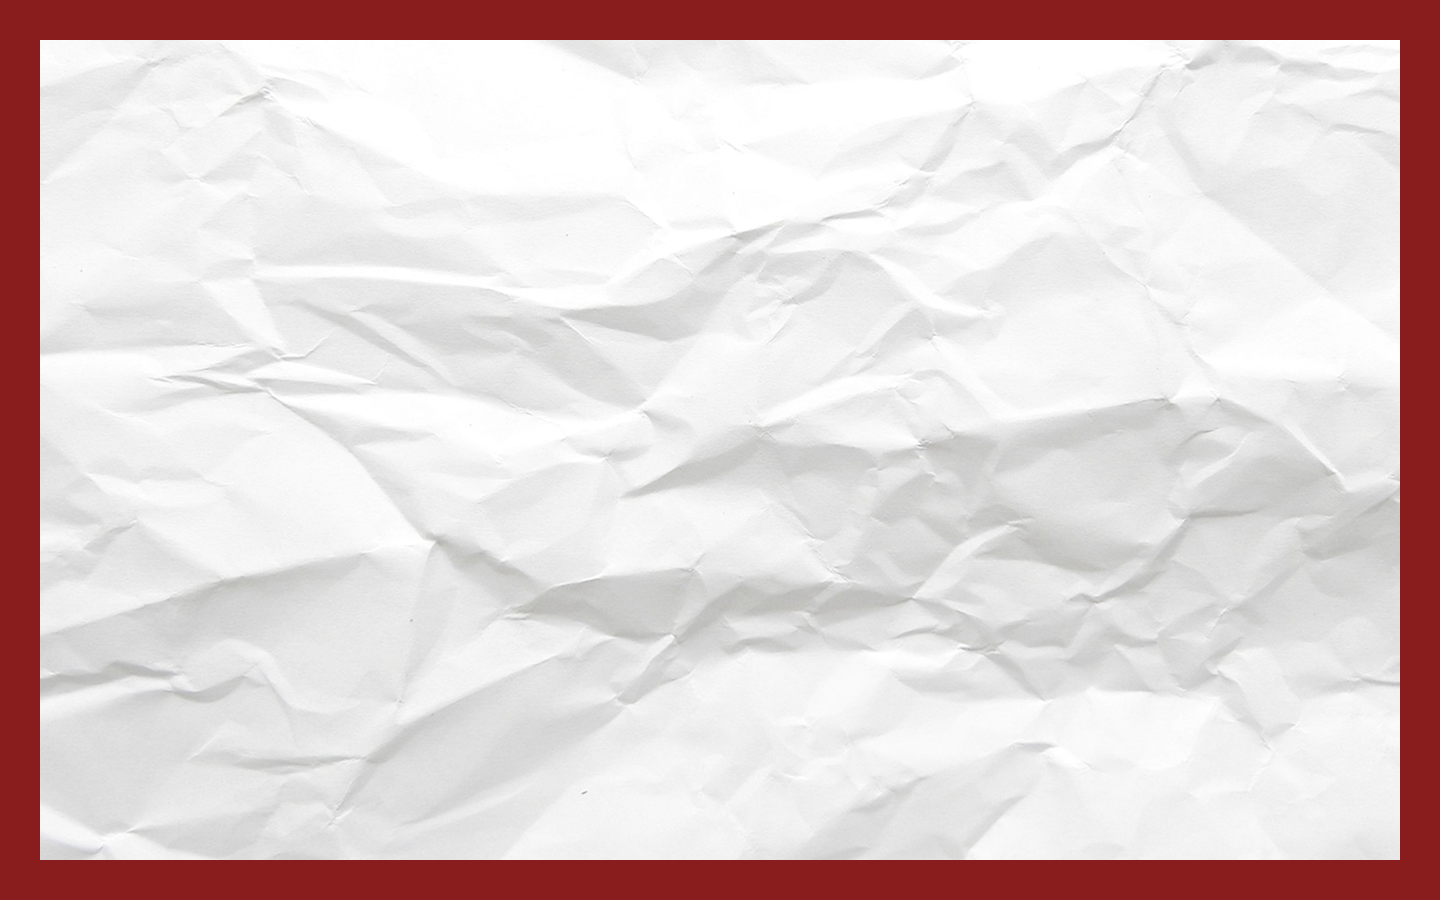
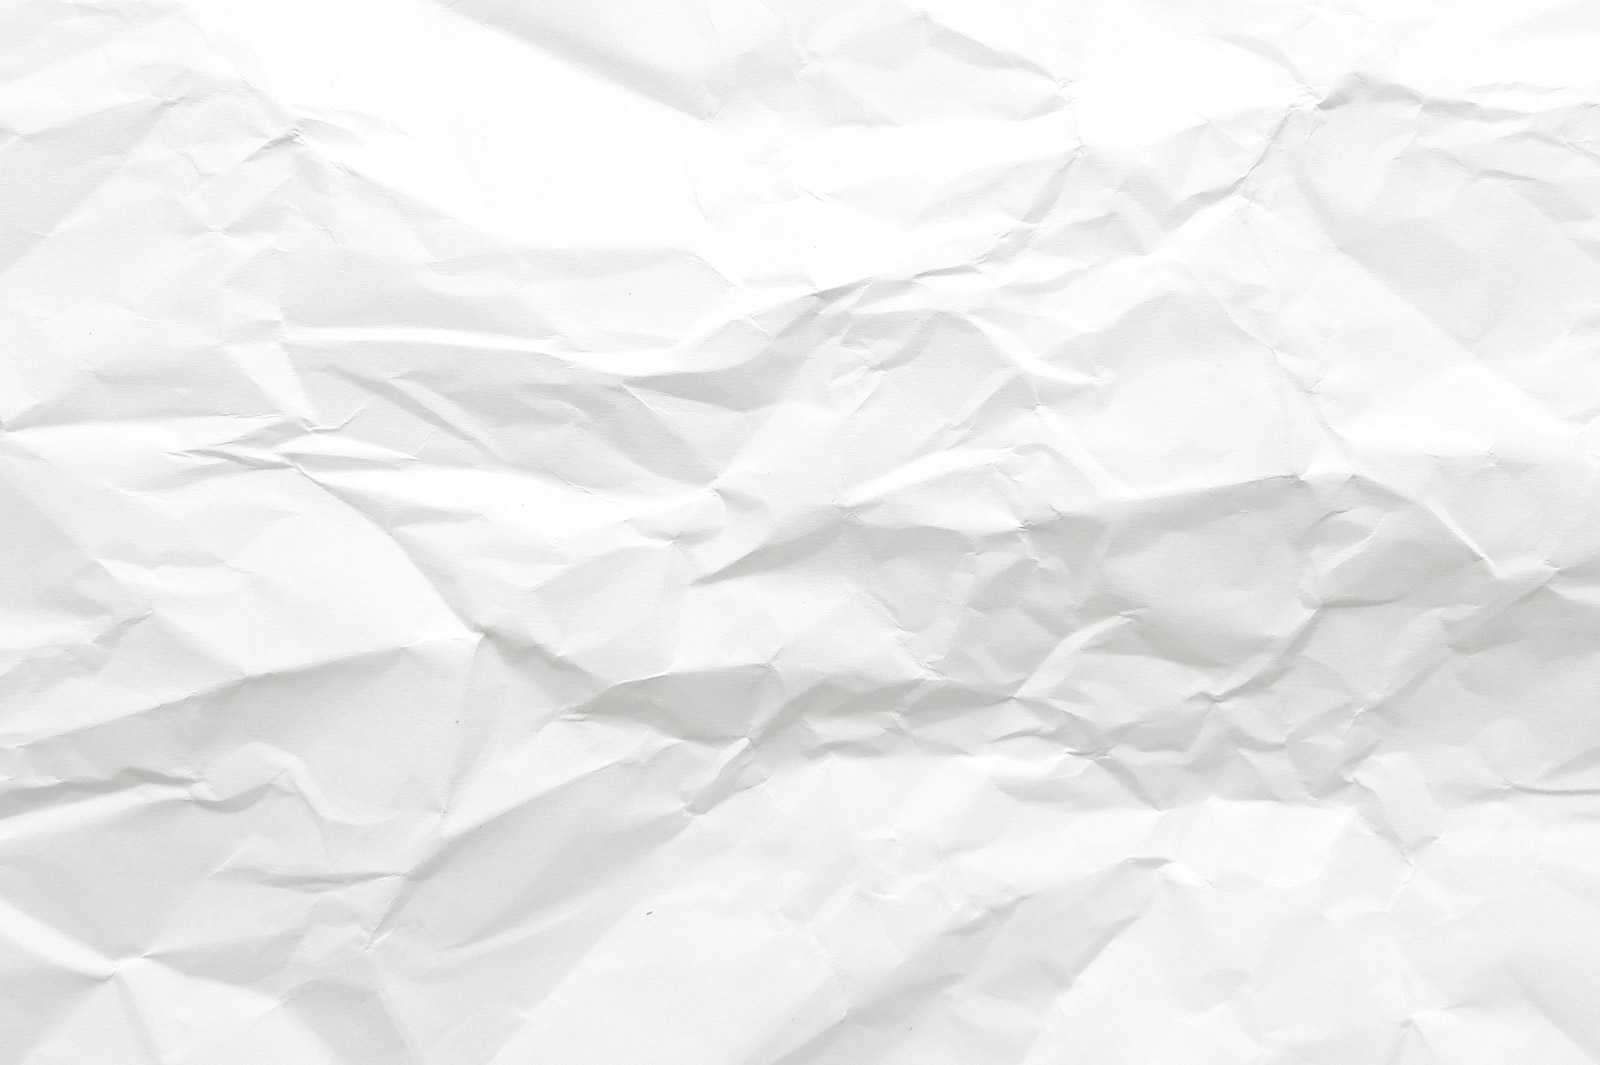
backend is up, need to flesh out backend logic

diff --git a/rA03tio/src/Result.jsx b/rA03tio/src/Result.jsx
@@ -1,17 +1,32 @@
 import { useEffect, useState } from "react";
+import "./Style.css";
 
-async function Result() {
-  const loadData = await fetch("http://127.0.0.1:4455/results");
-  const works = await loadData.json();
+function Result() {
+  const [data, setData] = useState([{}]);
+  useEffect(() => {
+    fetch("http://127.0.0.1:4455/results")
+      .then((res) => res.json())
+      .then((data) => {
+        setData(data);
+        console.log(data);
+      });
+  }, []);
+
   return (
-    <>
-      <h1>Works</h1>
-      <ol>
-        {works.items.map((work, index) => (
-          <li key={index}>{work}</li>
-        ))}
-      </ol>
-    </>
+    <div>
+      {typeof data.items === "undefined" ? (
+        <p>Loading...</p>
+      ) : (
+        <>
+          <h1>Works</h1>
+          <ol>
+            {data.items.map((work, index) => (
+              <li key={index}>{work}</li>
+            ))}
+          </ol>
+        </>
+      )}
+    </div>
   );
 }
 

diff --git a/rA03tio/src/main.jsx b/rA03tio/src/main.jsx
@@ -2,7 +2,7 @@ import { StrictMode } from "react";
 import { createRoot } from "react-dom/client";
 import "./index.css";
 import { createBrowserRouter, RouterProvider } from "react-router-dom";
-import Home from "./home.jsx";
+import Home from "./Home.jsx";
 import Search from "./Search.jsx";
 import Result from "./Result.jsx";
 

diff --git a/rA03tio/src/Style.css b/rA03tio/src/Style.css
@@ -8,7 +8,7 @@
 }
 
 body {
-  /* paper and red border */
+  /* paper*/
   background-image: url("./assets/paper.jpg");
   background-position: center;
   background-size: 100vw 100vh;

diff --git a/backend/app.py b/backend/app.py
@@ -1,54 +1,55 @@
-from flask import Flask, render_template, jsonify
+from flask import Flask
 from flask_cors import CORS
 import AO3
 import heapq
 
 
 app = Flask(__name__)
+CORS(app)
 app.debug = True
 
 app.secret_key = 'This is your secret key to utilize session in Flask'
 
-@app.route('/results') # methods=["GET", "POST"]
+@app.route('/results', methods=["GET", "POST"])
 def ratio():
     items = ["pls", "god", "make this", "work"]
-    # search = AO3.Search(tags="Caitlyn*s*Vi%20(League%20of%20Legends)", kudos=AO3.utils.Constraint(10000))
-    # search.update()
+    search = AO3.Search(tags="Caitlyn*s*Vi%20(League%20of%20Legends)", kudos=AO3.utils.Constraint(10000))
+    search.update()
     
-    # #print statements
-    # #print(search.pages)
+    #print statements
+    #print(search.pages)
 
-    # for result in search.results:
-    #     metadata = result.metadata
-    #     #print(result,  metadata["kudos"])
-    # #print statements
+    for result in search.results:
+        metadata = result.metadata
+        #print(result,  metadata["kudos"])
+    #print statements
 
-    # #print("HIIIIIIIIIII==============")
-    # #print(len(kudos_heap))
-    # ratio_heap = [] 
-    # for work in search.results:
-    #     metadata = work.metadata
-    #     keys = metadata.keys() 
-    #     if "bookmarks" in keys and "kudos" in keys and "hits" in keys:
-    #         bookmarks_to_kudos = metadata["bookmarks"] / metadata["kudos"]
-    #         if bookmarks_to_kudos > 1:
-    #             bookmarks_to_kudos = 1
-    #         #print(bookmarks_to_kudos)
-    #         heapq.heappush(ratio_heap, (-1 *bookmarks_to_kudos, metadata["hits"],work))
+    #print("HIIIIIIIIIII==============")
+    #print(len(kudos_heap))
+    ratio_heap = [] 
+    for work in search.results:
+        metadata = work.metadata
+        keys = metadata.keys() 
+        if "bookmarks" in keys and "kudos" in keys and "hits" in keys:
+            bookmarks_to_kudos = metadata["bookmarks"] / metadata["kudos"]
+            if bookmarks_to_kudos > 1:
+                bookmarks_to_kudos = 1
+            #print(bookmarks_to_kudos)
+            heapq.heappush(ratio_heap, (-1 *bookmarks_to_kudos, metadata["hits"],work))
     
-    # items = []
-    # for _ in range(min(50, len(ratio_heap))):
-    #     bookmarks_to_kudos, hits, work = heapq.heappop(ratio_heap)
-    #     title = work.metadata['title']
-    #     author = ",".join(work.metadata['authors'])
-    #     bookmarks_to_kudos = "bookmarks to kudos ratio: " + str(bookmarks_to_kudos * -1)
-    #     bookmarks = ", bookmarks: " + str(work.metadata['bookmarks'])
-    #     kudos = ", kudos: " + str(work.metadata['kudos'])
-    #     hits = ", hits: " + str(hits)
-    #     items.append(title + " - " + author + ", " + bookmarks_to_kudos + bookmarks + kudos + hits)
+    items = []
+    for _ in range(min(50, len(ratio_heap))):
+        bookmarks_to_kudos, hits, work = heapq.heappop(ratio_heap)
+        title = work.metadata['title']
+        author = ",".join(work.metadata['authors'])
+        bookmarks_to_kudos = "bookmarks to kudos ratio: " + str(bookmarks_to_kudos * -1)
+        bookmarks = ", bookmarks: " + str(work.metadata['bookmarks'])
+        kudos = ", kudos: " + str(work.metadata['kudos'])
+        hits = ", hits: " + str(hits)
+        items.append(title + " - " + author + ", " + bookmarks_to_kudos + bookmarks + kudos + hits)
     
     # return render_template('results.html', items=items)
-    return jsonify(items)
+    return {"items": items}
     
 
 if __name__ == '__main__':
